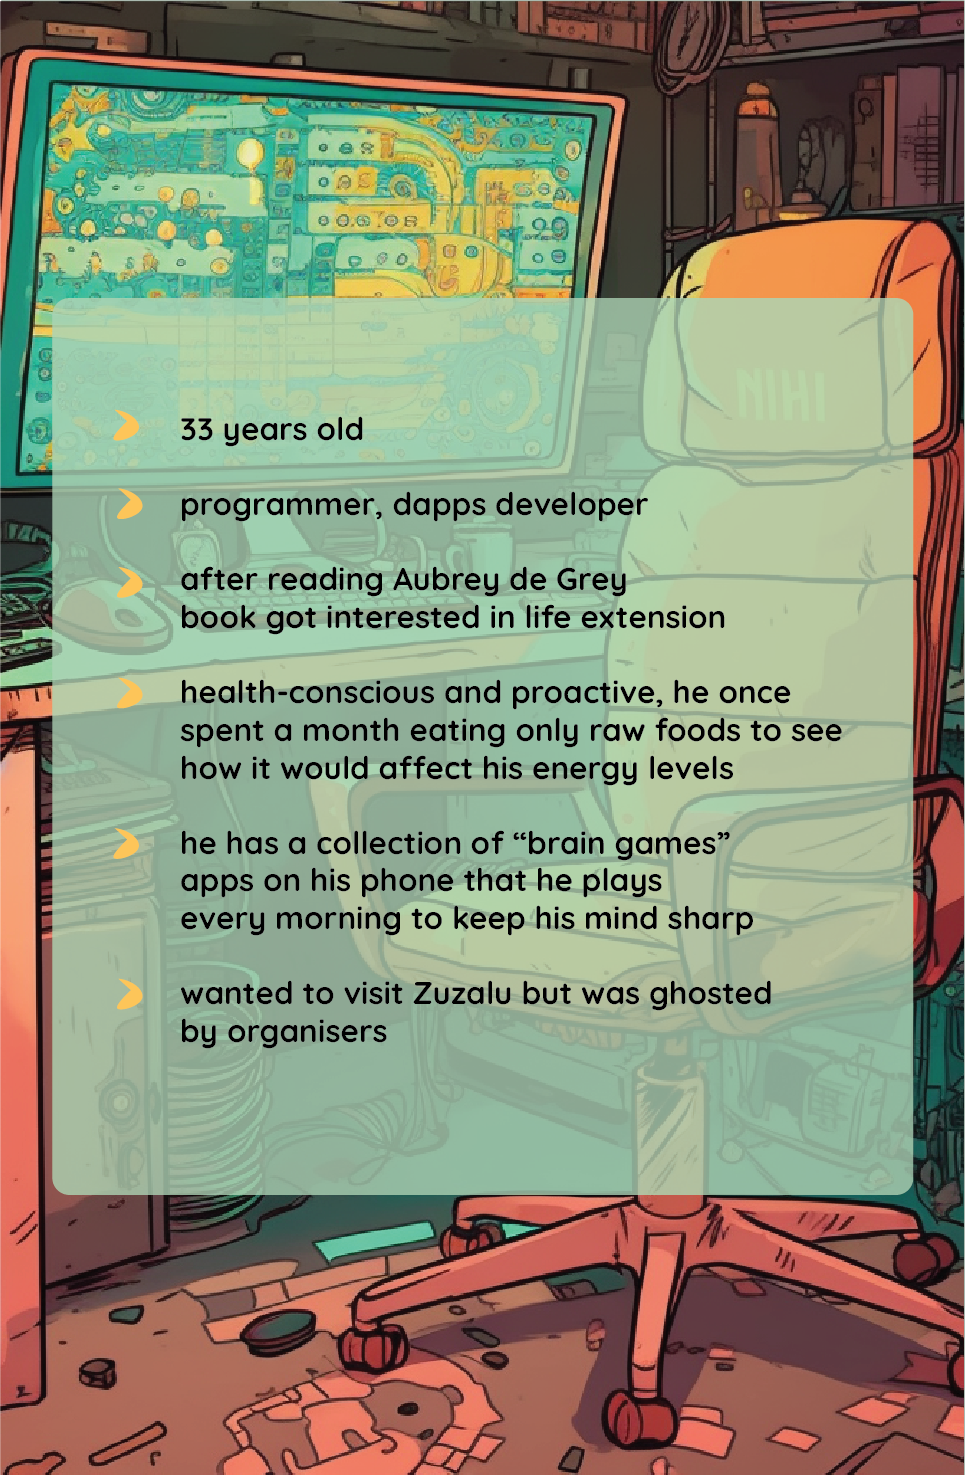
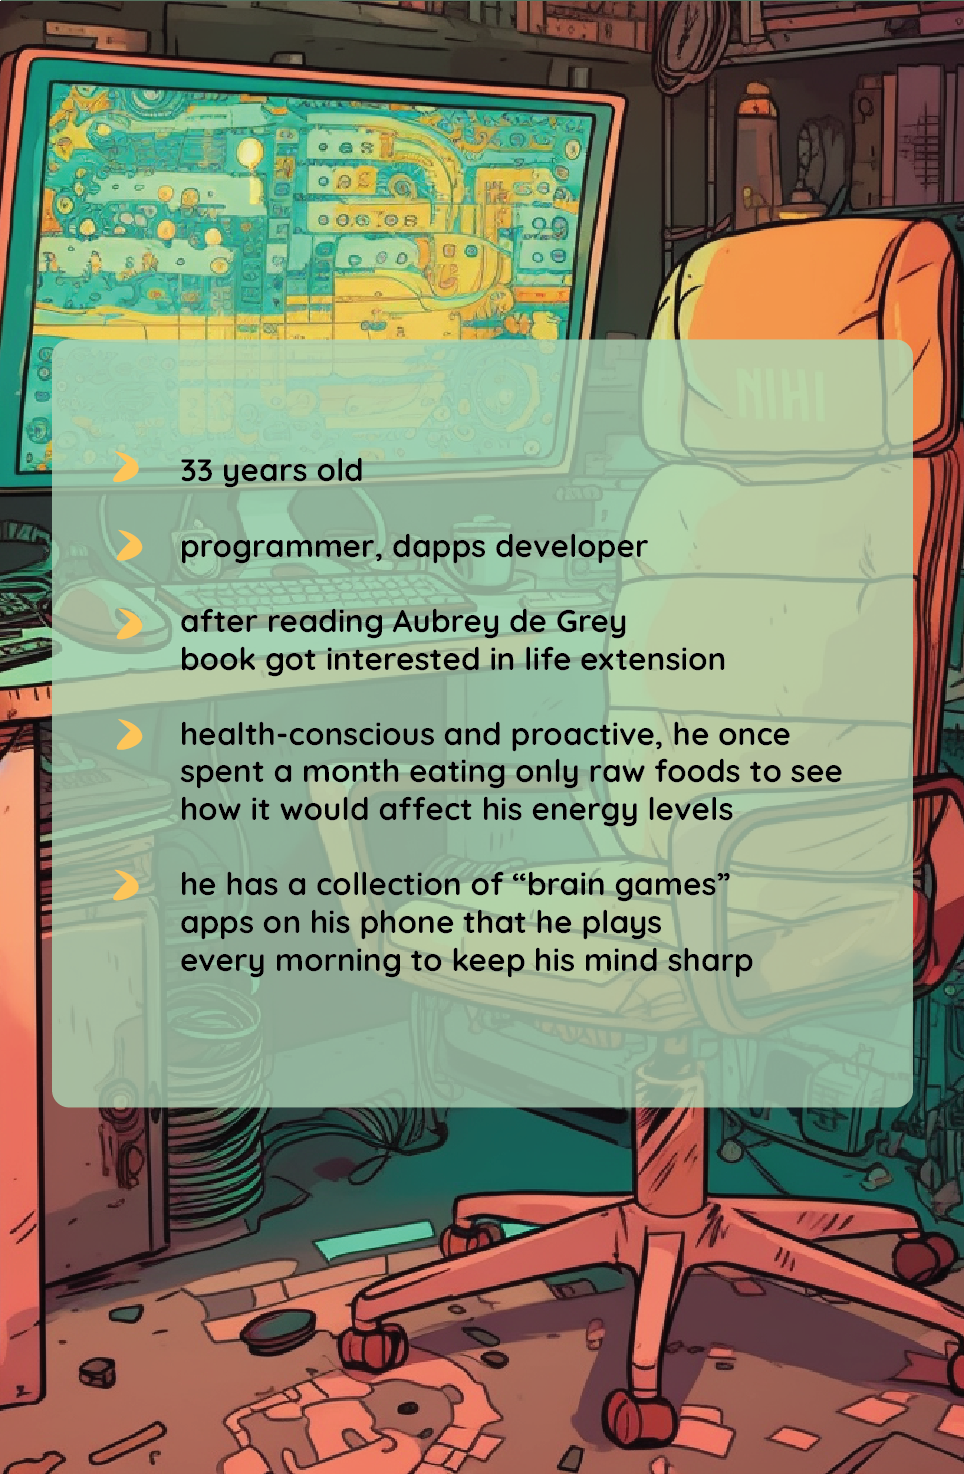
made the cover clickable, small fix on mobile version

diff --git a/dna-seq_stories/css/styles.css b/dna-seq_stories/css/styles.css
@@ -8,9 +8,8 @@ body{
     background: #4DA0B0;  /* fallback for old browsers */
     background: -webkit-linear-gradient(to top, #D39D38, #4DA0B0);  /* Chrome 10-25, Safari 5.1-6 */
     background: linear-gradient(to top, #D39D38, #4DA0B0); /* W3C, IE 10+/ Edge, Firefox 16+, Chrome 26+, Opera 12+, Safari 7+ */
-    background-repeat: no-repeat;
-    background-size: cover;
     font-family: 'Roboto', sans-serif;
+    width: 100%;
 
 }
 h1{
@@ -87,18 +86,18 @@ img.cover{
     border-radius: 15px;
     color:#641b1b;
     width: 20vw;
-    margin-left: 2vw;
+    margin-left: 3vw;
 }
 .uk-button.uk-button-default:hover{
     border: rgb(255, 180, 42) solid 7px;
     color:#965555;
 }
-.uk-lightbox-items{
-    height: 100vh !important;
-}
 
 @media only screen and (max-width: 1800px) and (min-width: 1001px){
-
+    .container{
+        flex-wrap: nowrap;
+        align-content: space-between;
+    }
 .icon{
     width: 12vw;
 }
@@ -109,7 +108,8 @@ img.cover{
     font-size: 1.3vw;
 }
     img.cover{
-        height: 47vw;
+        height: 47vw !important;
+        width: 30vw !important;
     }
     h1{
         font-size: 3.5vw !important;
@@ -123,7 +123,7 @@ img.cover{
 
 @media only screen and (max-width: 1100px) and (min-width: 850px){
     .container{
-        width: 95vw;
+        width: 95%;
         flex-direction: column !important;
     }
     .left-column{
@@ -134,6 +134,9 @@ img.cover{
 
     }
     img.cover{
+        height: 60vw;
+    }
+    .inner{
         height: 60vw;
     }
     .left-column p{
@@ -160,7 +163,7 @@ img.cover{
         flex-direction: column !important;
         width: 100%;
         flex-flow: column wrap !important; 
-        height: 180vh;
+        height: 150vh;
     }
     .icon{
         margin: 0;
@@ -201,7 +204,7 @@ img.cover{
     }
     img.cover{
         height: 110vw;
-        margin-left: 14vw;
+        margin-left: 6vw;
     }
     .uk-button.uk-button-default:hover{
         border: rgb(255, 180, 42) solid 6px;

diff --git a/dna-seq_stories/index.html b/dna-seq_stories/index.html
@@ -55,9 +55,9 @@
                 <a class="uk-inline" href="images/23.png" ></a>
                 <a class="uk-inline" href="images/24.png" ></a>
                 <a class="uk-inline" href="images/last.png"></a>
-            </div>
-            <div class="uk-animation-slide-right uk-animation-toggle box">
-                    <img class=" cover uk-animation-kenburns" src="images/1.png" alt="cover of the comic" href="images/1.png">
+                <div class="uk-animation-slide-right uk-animation-toggle box">
+                    <a class="uk-button" href="images/1.png"> <img class=" cover uk-animation-kenburns" src="images/1.png" alt="cover of the comic" href="images/1.png"></a>
+                </div>
             </div>
         </div>
 </div>
